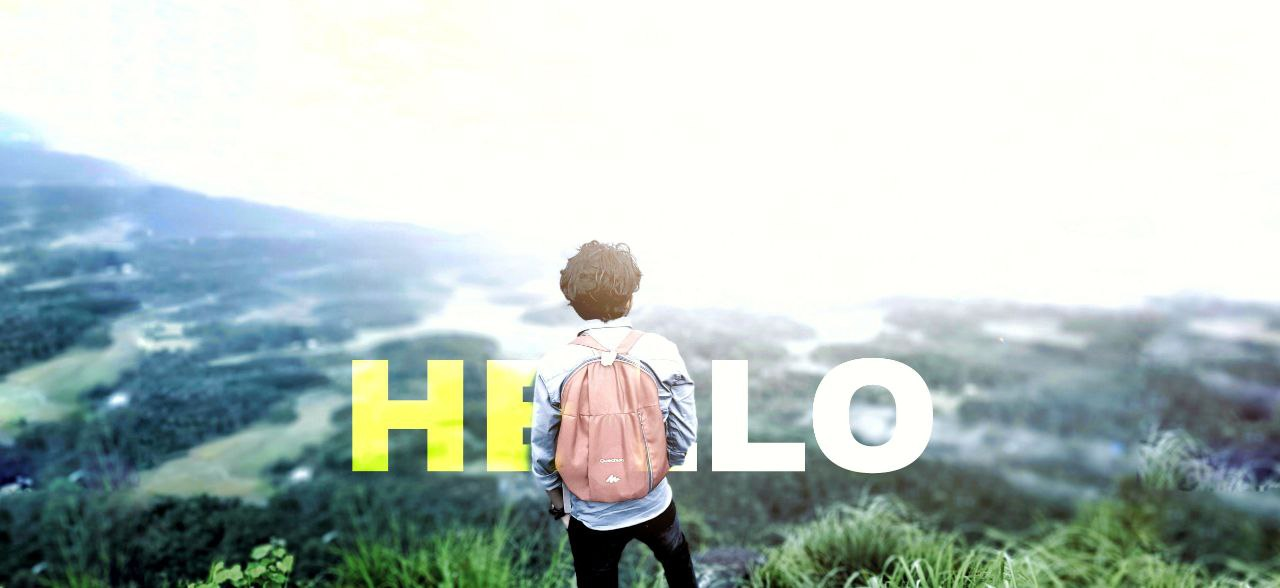
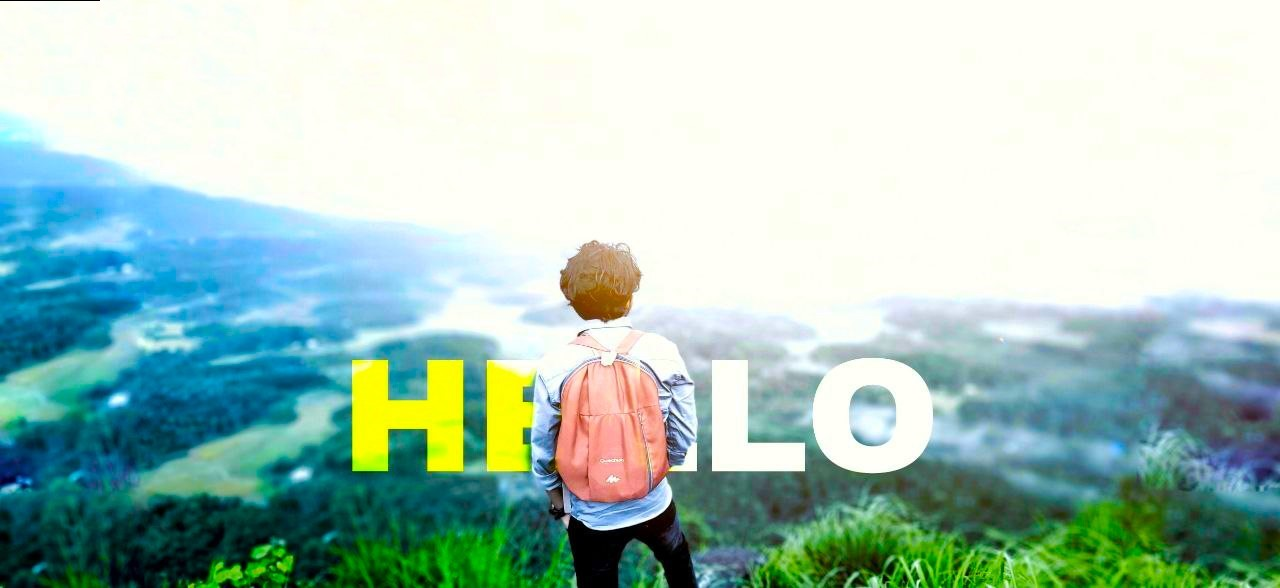
3

diff --git a/styles.css b/styles.css
@@ -1,4 +1,6 @@
 .img{
+  width: 100%;
+  height: 200%;
   background-size: cover;
   background-position: center;
   background-repeat: no-repeat;
@@ -11,9 +13,8 @@
   display: flex;
   align-items: center;
   left: 100%;
-  bottom: 25%;
 }.para{
-  font-size: 20px;
+  font-size: 22px;
   display: flex;
   right: 100%;
   left: 10px;
